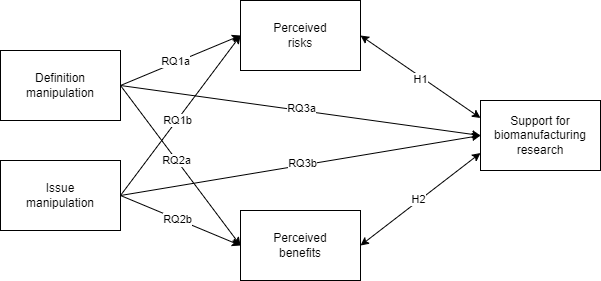
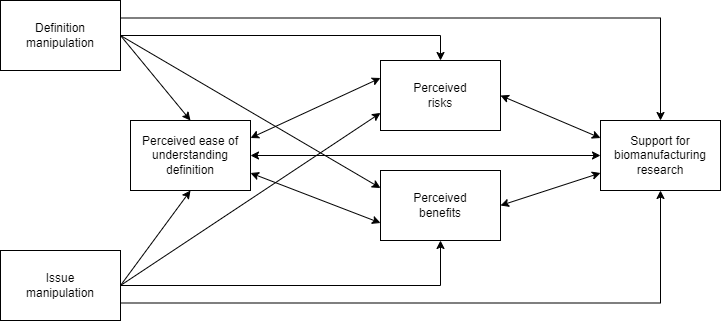
revising for Risk Analysis R&R2

diff --git a/outputs/tab-OLS-model.tex b/outputs/tab-OLS-model.tex
@@ -27,16 +27,16 @@
 \arrayrulecolor{black}
 
 \multicolumn{1}{!{\huxvb{0, 0, 0}{0}}l!{\huxvb{0, 0, 0}{0}}}{\huxtpad{0pt + 1em}\raggedright \hspace{0pt} {\fontsize{11pt}{13.2pt}\selectfont (Intercept)} \hspace{0pt}\huxbpad{0pt}} &
-\multicolumn{1}{r!{\huxvb{0, 0, 0}{0}}}{\huxtpad{0pt + 1em}\raggedleft \hspace{0pt} {\fontsize{11pt}{13.2pt}\selectfont 3.41 *** (0.14), 0.00} \hspace{0pt}\huxbpad{0pt}} &
-\multicolumn{1}{r!{\huxvb{0, 0, 0}{0}}}{\huxtpad{0pt + 1em}\raggedleft \hspace{0pt} {\fontsize{11pt}{13.2pt}\selectfont 4.90 *** (0.14), 0.00} \hspace{0pt}\huxbpad{0pt}} &
-\multicolumn{1}{r!{\huxvb{0, 0, 0}{0}}}{\huxtpad{0pt + 1em}\raggedleft \hspace{0pt} {\fontsize{11pt}{13.2pt}\selectfont 1.08 *** (0.13), 0.00} \hspace{0pt}\huxbpad{0pt}} \tabularnewline[-0.5pt]
+\multicolumn{1}{r!{\huxvb{0, 0, 0}{0}}}{\huxtpad{0pt + 1em}\raggedleft \hspace{0pt} {\fontsize{11pt}{13.2pt}\selectfont 3.41 (0.14), 0.00} \hspace{0pt}\huxbpad{0pt}} &
+\multicolumn{1}{r!{\huxvb{0, 0, 0}{0}}}{\huxtpad{0pt + 1em}\raggedleft \hspace{0pt} {\fontsize{11pt}{13.2pt}\selectfont 4.90 (0.14), 0.00} \hspace{0pt}\huxbpad{0pt}} &
+\multicolumn{1}{r!{\huxvb{0, 0, 0}{0}}}{\huxtpad{0pt + 1em}\raggedleft \hspace{0pt} {\fontsize{11pt}{13.2pt}\selectfont 1.08 (0.13), 0.00} \hspace{0pt}\huxbpad{0pt}} \tabularnewline[-0.5pt]
 
 
 \hhline{}
 \arrayrulecolor{black}
 
 \multicolumn{1}{!{\huxvb{0, 0, 0}{0}}l!{\huxvb{0, 0, 0}{0}}}{\huxtpad{0pt + 1em}\raggedright \hspace{0pt} {\fontsize{11pt}{13.2pt}\selectfont Definition manipulation (complex)} \hspace{0pt}\huxbpad{0pt}} &
-\multicolumn{1}{r!{\huxvb{0, 0, 0}{0}}}{\huxtpad{0pt + 1em}\raggedleft \hspace{0pt} {\fontsize{11pt}{13.2pt}\selectfont 0.23 ** (0.09), 0.01} \hspace{0pt}\huxbpad{0pt}} &
+\multicolumn{1}{r!{\huxvb{0, 0, 0}{0}}}{\huxtpad{0pt + 1em}\raggedleft \hspace{0pt} {\fontsize{11pt}{13.2pt}\selectfont 0.23 (0.09), 0.01} \hspace{0pt}\huxbpad{0pt}} &
 \multicolumn{1}{r!{\huxvb{0, 0, 0}{0}}}{\huxtpad{0pt + 1em}\raggedleft \hspace{0pt} {\fontsize{11pt}{13.2pt}\selectfont -0.08 (0.08), 0.37} \hspace{0pt}\huxbpad{0pt}} &
 \multicolumn{1}{r!{\huxvb{0, 0, 0}{0}}}{\huxtpad{0pt + 1em}\raggedleft \hspace{0pt} {\fontsize{11pt}{13.2pt}\selectfont 0.00 (0.05), 0.98} \hspace{0pt}\huxbpad{0pt}} \tabularnewline[-0.5pt]
 
@@ -47,7 +47,7 @@
 \multicolumn{1}{!{\huxvb{0, 0, 0}{0}}l!{\huxvb{0, 0, 0}{0}}}{\huxtpad{0pt + 1em}\raggedright \hspace{0pt} {\fontsize{11pt}{13.2pt}\selectfont Issue manipulation (makeup)} \hspace{0pt}\huxbpad{0pt}} &
 \multicolumn{1}{r!{\huxvb{0, 0, 0}{0}}}{\huxtpad{0pt + 1em}\raggedleft \hspace{0pt} {\fontsize{11pt}{13.2pt}\selectfont 0.08 (0.09), 0.36} \hspace{0pt}\huxbpad{0pt}} &
 \multicolumn{1}{r!{\huxvb{0, 0, 0}{0}}}{\huxtpad{0pt + 1em}\raggedleft \hspace{0pt} {\fontsize{11pt}{13.2pt}\selectfont 0.05 (0.08), 0.58} \hspace{0pt}\huxbpad{0pt}} &
-\multicolumn{1}{r!{\huxvb{0, 0, 0}{0}}}{\huxtpad{0pt + 1em}\raggedleft \hspace{0pt} {\fontsize{11pt}{13.2pt}\selectfont -0.13 ** (0.05), 0.01} \hspace{0pt}\huxbpad{0pt}} \tabularnewline[-0.5pt]
+\multicolumn{1}{r!{\huxvb{0, 0, 0}{0}}}{\huxtpad{0pt + 1em}\raggedleft \hspace{0pt} {\fontsize{11pt}{13.2pt}\selectfont -0.13 (0.05), 0.01} \hspace{0pt}\huxbpad{0pt}} \tabularnewline[-0.5pt]
 
 
 \hhline{}
@@ -63,9 +63,9 @@
 \arrayrulecolor{black}
 
 \multicolumn{1}{!{\huxvb{0, 0, 0}{0}}l!{\huxvb{0, 0, 0}{0}}}{\huxtpad{0pt + 1em}\raggedright \hspace{0pt} {\fontsize{11pt}{13.2pt}\selectfont Perceived familiarity} \hspace{0pt}\huxbpad{0pt}} &
-\multicolumn{1}{r!{\huxvb{0, 0, 0}{0}}}{\huxtpad{0pt + 1em}\raggedleft \hspace{0pt} {\fontsize{11pt}{13.2pt}\selectfont 0.25 *** (0.02), 0.00} \hspace{0pt}\huxbpad{0pt}} &
-\multicolumn{1}{r!{\huxvb{0, 0, 0}{0}}}{\huxtpad{0pt + 1em}\raggedleft \hspace{0pt} {\fontsize{11pt}{13.2pt}\selectfont 0.22 *** (0.02), 0.00} \hspace{0pt}\huxbpad{0pt}} &
-\multicolumn{1}{r!{\huxvb{0, 0, 0}{0}}}{\huxtpad{0pt + 1em}\raggedleft \hspace{0pt} {\fontsize{11pt}{13.2pt}\selectfont 0.13 *** (0.01), 0.00} \hspace{0pt}\huxbpad{0pt}} \tabularnewline[-0.5pt]
+\multicolumn{1}{r!{\huxvb{0, 0, 0}{0}}}{\huxtpad{0pt + 1em}\raggedleft \hspace{0pt} {\fontsize{11pt}{13.2pt}\selectfont 0.25 (0.02), 0.00} \hspace{0pt}\huxbpad{0pt}} &
+\multicolumn{1}{r!{\huxvb{0, 0, 0}{0}}}{\huxtpad{0pt + 1em}\raggedleft \hspace{0pt} {\fontsize{11pt}{13.2pt}\selectfont 0.22 (0.02), 0.00} \hspace{0pt}\huxbpad{0pt}} &
+\multicolumn{1}{r!{\huxvb{0, 0, 0}{0}}}{\huxtpad{0pt + 1em}\raggedleft \hspace{0pt} {\fontsize{11pt}{13.2pt}\selectfont 0.13 (0.01), 0.00} \hspace{0pt}\huxbpad{0pt}} \tabularnewline[-0.5pt]
 
 
 \hhline{}
@@ -73,7 +73,7 @@
 
 \multicolumn{1}{!{\huxvb{0, 0, 0}{0}}l!{\huxvb{0, 0, 0}{0}}}{\huxtpad{0pt + 1em}\raggedright \hspace{0pt} {\fontsize{11pt}{13.2pt}\selectfont Perceived ease} \hspace{0pt}\huxbpad{0pt}} &
 \multicolumn{1}{r!{\huxvb{0, 0, 0}{0}}}{\huxtpad{0pt + 1em}\raggedleft \hspace{0pt} {\fontsize{11pt}{13.2pt}\selectfont 0.04 (0.02), 0.06} \hspace{0pt}\huxbpad{0pt}} &
-\multicolumn{1}{r!{\huxvb{0, 0, 0}{0}}}{\huxtpad{0pt + 1em}\raggedleft \hspace{0pt} {\fontsize{11pt}{13.2pt}\selectfont -0.12 *** (0.02), 0.00} \hspace{0pt}\huxbpad{0pt}} &
+\multicolumn{1}{r!{\huxvb{0, 0, 0}{0}}}{\huxtpad{0pt + 1em}\raggedleft \hspace{0pt} {\fontsize{11pt}{13.2pt}\selectfont -0.12 (0.02), 0.00} \hspace{0pt}\huxbpad{0pt}} &
 \multicolumn{1}{r!{\huxvb{0, 0, 0}{0}}}{\huxtpad{0pt + 1em}\raggedleft \hspace{0pt} {\fontsize{11pt}{13.2pt}\selectfont -0.02 (0.01), 0.16} \hspace{0pt}\huxbpad{0pt}} \tabularnewline[-0.5pt]
 
 
@@ -92,7 +92,7 @@
 \multicolumn{1}{!{\huxvb{0, 0, 0}{0}}l!{\huxvb{0, 0, 0}{0}}}{\huxtpad{0pt + 1em}\raggedright \hspace{0pt} {\fontsize{11pt}{13.2pt}\selectfont Perceived benefits} \hspace{0pt}\huxbpad{0pt}} &
 \multicolumn{1}{r!{\huxvb{0, 0, 0}{0}}}{\huxtpad{0pt + 1em}\raggedleft \hspace{0pt} {\fontsize{11pt}{13.2pt}\selectfont  \hphantom{0}\hphantom{0}\hphantom{0}} \hspace{0pt}\huxbpad{0pt}} &
 \multicolumn{1}{r!{\huxvb{0, 0, 0}{0}}}{\huxtpad{0pt + 1em}\raggedleft \hspace{0pt} {\fontsize{11pt}{13.2pt}\selectfont  \hphantom{0}\hphantom{0}\hphantom{0}} \hspace{0pt}\huxbpad{0pt}} &
-\multicolumn{1}{r!{\huxvb{0, 0, 0}{0}}}{\huxtpad{0pt + 1em}\raggedleft \hspace{0pt} {\fontsize{11pt}{13.2pt}\selectfont 0.70 *** (0.02), 0.00} \hspace{0pt}\huxbpad{0pt}} \tabularnewline[-0.5pt]
+\multicolumn{1}{r!{\huxvb{0, 0, 0}{0}}}{\huxtpad{0pt + 1em}\raggedleft \hspace{0pt} {\fontsize{11pt}{13.2pt}\selectfont 0.70 (0.02), 0.00} \hspace{0pt}\huxbpad{0pt}} \tabularnewline[-0.5pt]
 
 
 \hhline{>{\huxb{255, 255, 255}{0.4}}->{\huxb{0, 0, 0}{0.4}}->{\huxb{0, 0, 0}{0.4}}->{\huxb{0, 0, 0}{0.4}}-}
@@ -141,12 +141,6 @@
 
 
 \hhline{>{\huxb{0, 0, 0}{0.8}}->{\huxb{0, 0, 0}{0.8}}->{\huxb{0, 0, 0}{0.8}}->{\huxb{0, 0, 0}{0.8}}-}
-\arrayrulecolor{black}
-
-\multicolumn{4}{!{\huxvb{0, 0, 0}{0}}l!{\huxvb{0, 0, 0}{0}}}{\huxtpad{0pt + 1em}\raggedright \hspace{0pt} {\fontsize{11pt}{13.2pt}\selectfont *** p $<$ 0.001; ** p $<$ 0.01; * p $<$ 0.05.} \hspace{0pt}\huxbpad{0pt}} \tabularnewline[-0.5pt]
-
-
-\hhline{}
 \arrayrulecolor{black}
 \end{tabular}
 \end{threeparttable}\par\end{centerbox}

diff --git a/outputs/tab-OLS-model-supp.tex b/outputs/tab-OLS-model-supp.tex
@@ -27,9 +27,9 @@
 \arrayrulecolor{black}
 
 \multicolumn{1}{!{\huxvb{0, 0, 0}{0}}l!{\huxvb{0, 0, 0}{0}}}{\huxtpad{0pt + 1em}\raggedright \hspace{0pt} {\fontsize{11pt}{13.2pt}\selectfont (Intercept)} \hspace{0pt}\huxbpad{0pt}} &
-\multicolumn{1}{r!{\huxvb{0, 0, 0}{0}}}{\huxtpad{0pt + 1em}\raggedleft \hspace{0pt} {\fontsize{11pt}{13.2pt}\selectfont 3.33 *** (0.18), 0.00} \hspace{0pt}\huxbpad{0pt}} &
-\multicolumn{1}{r!{\huxvb{0, 0, 0}{0}}}{\huxtpad{0pt + 1em}\raggedleft \hspace{0pt} {\fontsize{11pt}{13.2pt}\selectfont 5.06 *** (0.18), 0.00} \hspace{0pt}\huxbpad{0pt}} &
-\multicolumn{1}{r!{\huxvb{0, 0, 0}{0}}}{\huxtpad{0pt + 1em}\raggedleft \hspace{0pt} {\fontsize{11pt}{13.2pt}\selectfont 1.15 *** (0.15), 0.00} \hspace{0pt}\huxbpad{0pt}} \tabularnewline[-0.5pt]
+\multicolumn{1}{r!{\huxvb{0, 0, 0}{0}}}{\huxtpad{0pt + 1em}\raggedleft \hspace{0pt} {\fontsize{11pt}{13.2pt}\selectfont 3.33 (0.18), 0.00} \hspace{0pt}\huxbpad{0pt}} &
+\multicolumn{1}{r!{\huxvb{0, 0, 0}{0}}}{\huxtpad{0pt + 1em}\raggedleft \hspace{0pt} {\fontsize{11pt}{13.2pt}\selectfont 5.06 (0.18), 0.00} \hspace{0pt}\huxbpad{0pt}} &
+\multicolumn{1}{r!{\huxvb{0, 0, 0}{0}}}{\huxtpad{0pt + 1em}\raggedleft \hspace{0pt} {\fontsize{11pt}{13.2pt}\selectfont 1.15 (0.15), 0.00} \hspace{0pt}\huxbpad{0pt}} \tabularnewline[-0.5pt]
 
 
 \hhline{}
@@ -47,7 +47,7 @@
 \multicolumn{1}{!{\huxvb{0, 0, 0}{0}}l!{\huxvb{0, 0, 0}{0}}}{\huxtpad{0pt + 1em}\raggedright \hspace{0pt} {\fontsize{11pt}{13.2pt}\selectfont Issue manipulation (makeup)} \hspace{0pt}\huxbpad{0pt}} &
 \multicolumn{1}{r!{\huxvb{0, 0, 0}{0}}}{\huxtpad{0pt + 1em}\raggedleft \hspace{0pt} {\fontsize{11pt}{13.2pt}\selectfont 0.13 (0.22), 0.56} \hspace{0pt}\huxbpad{0pt}} &
 \multicolumn{1}{r!{\huxvb{0, 0, 0}{0}}}{\huxtpad{0pt + 1em}\raggedleft \hspace{0pt} {\fontsize{11pt}{13.2pt}\selectfont -0.17 (0.21), 0.42} \hspace{0pt}\huxbpad{0pt}} &
-\multicolumn{1}{r!{\huxvb{0, 0, 0}{0}}}{\huxtpad{0pt + 1em}\raggedleft \hspace{0pt} {\fontsize{11pt}{13.2pt}\selectfont -0.27 * (0.13), 0.03} \hspace{0pt}\huxbpad{0pt}} \tabularnewline[-0.5pt]
+\multicolumn{1}{r!{\huxvb{0, 0, 0}{0}}}{\huxtpad{0pt + 1em}\raggedleft \hspace{0pt} {\fontsize{11pt}{13.2pt}\selectfont -0.27 (0.13), 0.03} \hspace{0pt}\huxbpad{0pt}} \tabularnewline[-0.5pt]
 
 
 \hhline{}
@@ -63,9 +63,9 @@
 \arrayrulecolor{black}
 
 \multicolumn{1}{!{\huxvb{0, 0, 0}{0}}l!{\huxvb{0, 0, 0}{0}}}{\huxtpad{0pt + 1em}\raggedright \hspace{0pt} {\fontsize{11pt}{13.2pt}\selectfont Perceived familiarity} \hspace{0pt}\huxbpad{0pt}} &
-\multicolumn{1}{r!{\huxvb{0, 0, 0}{0}}}{\huxtpad{0pt + 1em}\raggedleft \hspace{0pt} {\fontsize{11pt}{13.2pt}\selectfont 0.27 *** (0.04), 0.00} \hspace{0pt}\huxbpad{0pt}} &
-\multicolumn{1}{r!{\huxvb{0, 0, 0}{0}}}{\huxtpad{0pt + 1em}\raggedleft \hspace{0pt} {\fontsize{11pt}{13.2pt}\selectfont 0.18 *** (0.04), 0.00} \hspace{0pt}\huxbpad{0pt}} &
-\multicolumn{1}{r!{\huxvb{0, 0, 0}{0}}}{\huxtpad{0pt + 1em}\raggedleft \hspace{0pt} {\fontsize{11pt}{13.2pt}\selectfont 0.12 *** (0.02), 0.00} \hspace{0pt}\huxbpad{0pt}} \tabularnewline[-0.5pt]
+\multicolumn{1}{r!{\huxvb{0, 0, 0}{0}}}{\huxtpad{0pt + 1em}\raggedleft \hspace{0pt} {\fontsize{11pt}{13.2pt}\selectfont 0.27 (0.04), 0.00} \hspace{0pt}\huxbpad{0pt}} &
+\multicolumn{1}{r!{\huxvb{0, 0, 0}{0}}}{\huxtpad{0pt + 1em}\raggedleft \hspace{0pt} {\fontsize{11pt}{13.2pt}\selectfont 0.18 (0.04), 0.00} \hspace{0pt}\huxbpad{0pt}} &
+\multicolumn{1}{r!{\huxvb{0, 0, 0}{0}}}{\huxtpad{0pt + 1em}\raggedleft \hspace{0pt} {\fontsize{11pt}{13.2pt}\selectfont 0.12 (0.02), 0.00} \hspace{0pt}\huxbpad{0pt}} \tabularnewline[-0.5pt]
 
 
 \hhline{}
@@ -73,7 +73,7 @@
 
 \multicolumn{1}{!{\huxvb{0, 0, 0}{0}}l!{\huxvb{0, 0, 0}{0}}}{\huxtpad{0pt + 1em}\raggedright \hspace{0pt} {\fontsize{11pt}{13.2pt}\selectfont Perceived ease} \hspace{0pt}\huxbpad{0pt}} &
 \multicolumn{1}{r!{\huxvb{0, 0, 0}{0}}}{\huxtpad{0pt + 1em}\raggedleft \hspace{0pt} {\fontsize{11pt}{13.2pt}\selectfont 0.04 (0.02), 0.06} \hspace{0pt}\huxbpad{0pt}} &
-\multicolumn{1}{r!{\huxvb{0, 0, 0}{0}}}{\huxtpad{0pt + 1em}\raggedleft \hspace{0pt} {\fontsize{11pt}{13.2pt}\selectfont -0.13 *** (0.02), 0.00} \hspace{0pt}\huxbpad{0pt}} &
+\multicolumn{1}{r!{\huxvb{0, 0, 0}{0}}}{\huxtpad{0pt + 1em}\raggedleft \hspace{0pt} {\fontsize{11pt}{13.2pt}\selectfont -0.13 (0.02), 0.00} \hspace{0pt}\huxbpad{0pt}} &
 \multicolumn{1}{r!{\huxvb{0, 0, 0}{0}}}{\huxtpad{0pt + 1em}\raggedleft \hspace{0pt} {\fontsize{11pt}{13.2pt}\selectfont -0.02 (0.01), 0.15} \hspace{0pt}\huxbpad{0pt}} \tabularnewline[-0.5pt]
 
 
@@ -92,7 +92,7 @@
 \multicolumn{1}{!{\huxvb{0, 0, 0}{0}}l!{\huxvb{0, 0, 0}{0}}}{\huxtpad{0pt + 1em}\raggedright \hspace{0pt} {\fontsize{11pt}{13.2pt}\selectfont Perceived benefits} \hspace{0pt}\huxbpad{0pt}} &
 \multicolumn{1}{r!{\huxvb{0, 0, 0}{0}}}{\huxtpad{0pt + 1em}\raggedleft \hspace{0pt} {\fontsize{11pt}{13.2pt}\selectfont  \hphantom{0}\hphantom{0}\hphantom{0}} \hspace{0pt}\huxbpad{0pt}} &
 \multicolumn{1}{r!{\huxvb{0, 0, 0}{0}}}{\huxtpad{0pt + 1em}\raggedleft \hspace{0pt} {\fontsize{11pt}{13.2pt}\selectfont  \hphantom{0}\hphantom{0}\hphantom{0}} \hspace{0pt}\huxbpad{0pt}} &
-\multicolumn{1}{r!{\huxvb{0, 0, 0}{0}}}{\huxtpad{0pt + 1em}\raggedleft \hspace{0pt} {\fontsize{11pt}{13.2pt}\selectfont 0.70 *** (0.02), 0.00} \hspace{0pt}\huxbpad{0pt}} \tabularnewline[-0.5pt]
+\multicolumn{1}{r!{\huxvb{0, 0, 0}{0}}}{\huxtpad{0pt + 1em}\raggedleft \hspace{0pt} {\fontsize{11pt}{13.2pt}\selectfont 0.70 (0.02), 0.00} \hspace{0pt}\huxbpad{0pt}} \tabularnewline[-0.5pt]
 
 
 \hhline{}
@@ -177,12 +177,6 @@
 
 
 \hhline{>{\huxb{0, 0, 0}{0.8}}->{\huxb{0, 0, 0}{0.8}}->{\huxb{0, 0, 0}{0.8}}->{\huxb{0, 0, 0}{0.8}}-}
-\arrayrulecolor{black}
-
-\multicolumn{4}{!{\huxvb{0, 0, 0}{0}}l!{\huxvb{0, 0, 0}{0}}}{\huxtpad{0pt + 1em}\raggedright \hspace{0pt} {\fontsize{11pt}{13.2pt}\selectfont *** p $<$ 0.001; ** p $<$ 0.01; * p $<$ 0.05.} \hspace{0pt}\huxbpad{0pt}} \tabularnewline[-0.5pt]
-
-
-\hhline{}
 \arrayrulecolor{black}
 \end{tabular}
 \end{threeparttable}\par\end{centerbox}
